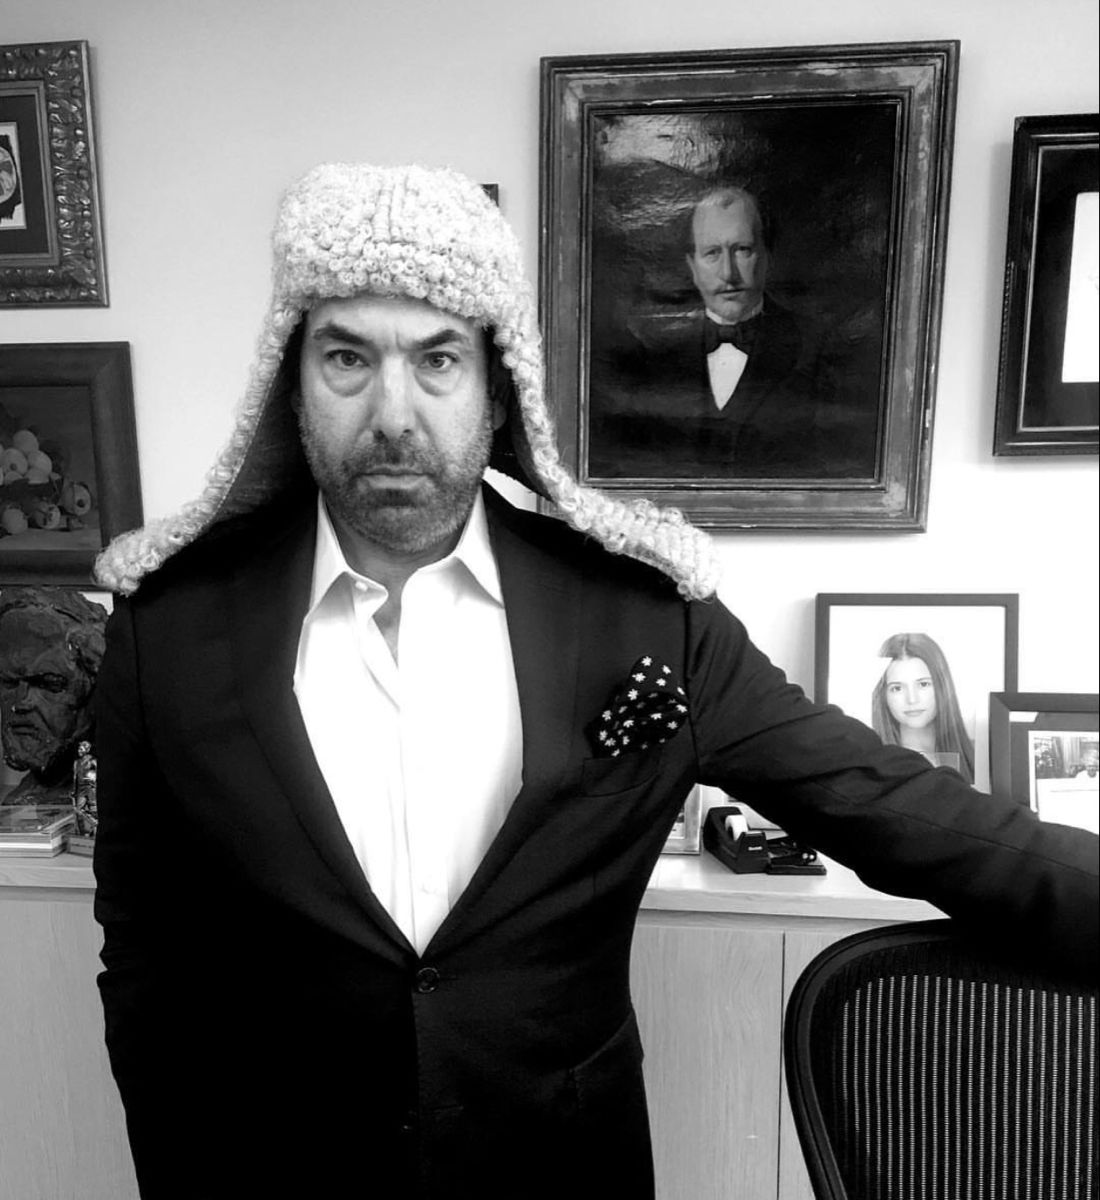
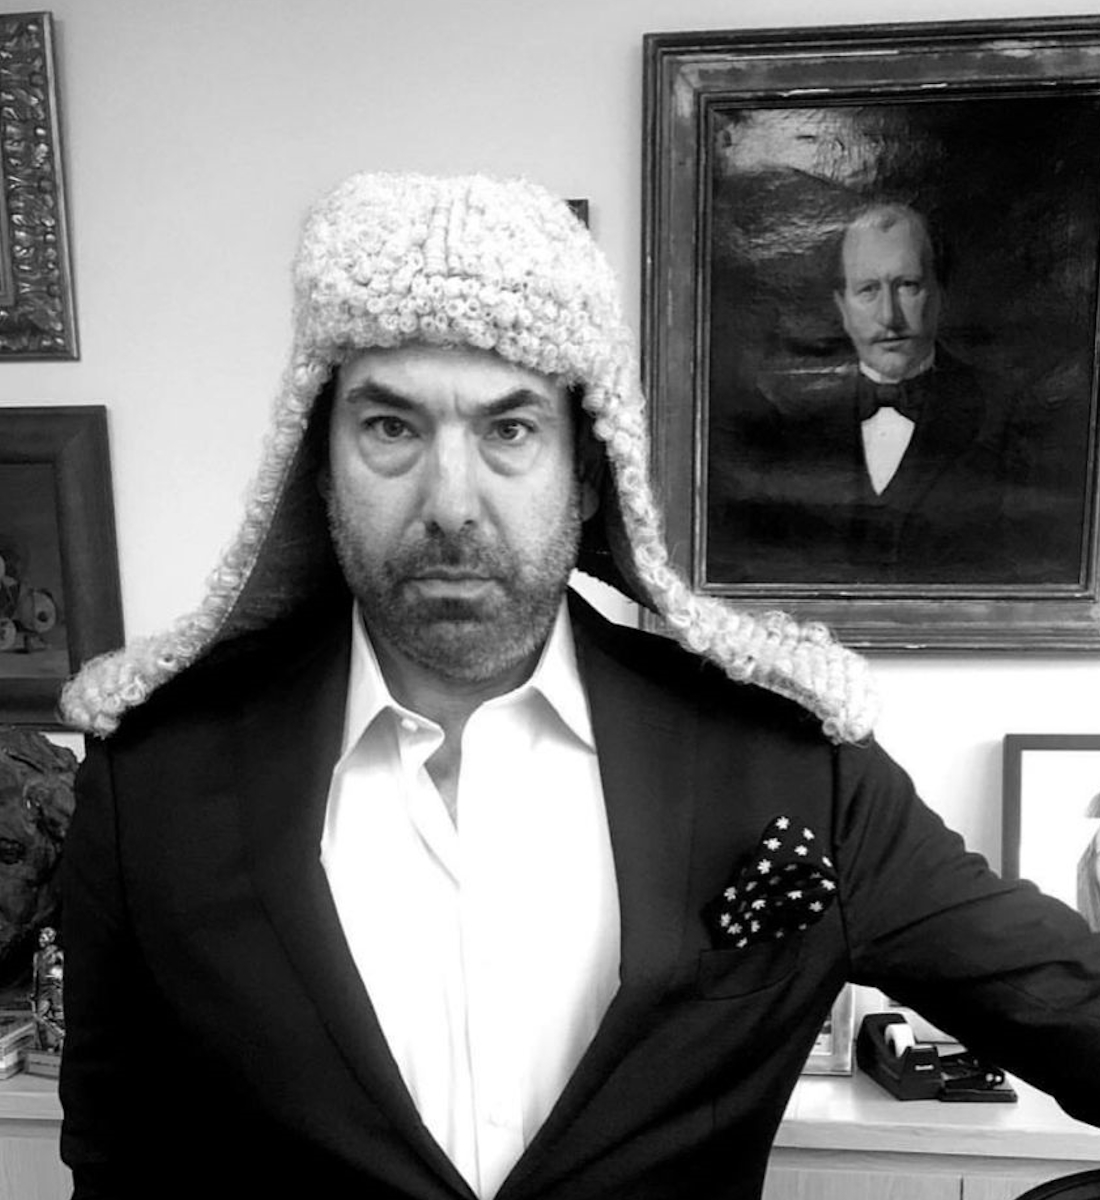
botao de sair do dashboard

diff --git a/src/_components/HeaderActions.tsx b/src/_components/HeaderActions.tsx
@@ -1,17 +1,31 @@
 "use client"
 
 import { usePathname } from "next/navigation"
+import { logout } from "@/_lib/actions"
 
 /**
- * Navegação e CTA do Header. Na intranet (`/dashboard`) ficam ocultos: quem
- * está lá dentro já navega pela sidebar e não precisa agendar reunião.
+ * Navegação e CTA do Header. Na intranet (`/dashboard`) dão lugar ao botão de
+ * sair: quem está lá dentro já navega pela sidebar e não precisa agendar reunião.
  */
 export default function HeaderActions({ children }: { children: React.ReactNode }) {
     const pathname = usePathname()
-    const hidden = pathname === "/dashboard" || pathname.startsWith("/dashboard/")
+    const isDashboard = pathname === "/dashboard" || pathname.startsWith("/dashboard/")
+
+    if (isDashboard) {
+        return (
+            <form action={logout} className="ml-auto shrink-0">
+                <button
+                    type="submit"
+                    className="cursor-pointer font-blair font-bold uppercase tracking-[0.2em] text-xs text-gray-400-dark transition-fast hover:text-white-text"
+                >
+                    Sair
+                </button>
+            </form>
+        )
+    }
 
     return (
-        <div className={`${hidden ? "hidden" : "flex"} w-full flex-row items-center justify-end lg:justify-between gap-3`}>
+        <div className="flex w-full flex-row items-center justify-end lg:justify-between gap-3">
             {children}
         </div>
     )

diff --git a/src/_components/Sidebar.tsx b/src/_components/Sidebar.tsx
@@ -22,18 +22,18 @@ async function UserCard() {
 
     return (
         <div className="flex flex-row items-center justify-between gap-5">
-            <div className="flex items-center gap-3">
+            <div className="flex min-w-0 items-center gap-3">
                 <Avatar name={user.name} initials={user.initials} image={user.image} />
                 <div className="flex min-w-0 flex-col">
-                    <span className="truncate font-bold text-sm">
+                    <span className="truncate font-bold text-sm" title={user.name}>
                         {user.name}
                     </span>
-                    <span className="truncate text-xs text-gray-400-dark">
+                    <span className="truncate text-xs text-gray-400-dark" title={user.title}>
                         {user.title}
                     </span>
                 </div>
             </div>
-            <form action={logout}>
+            <form action={logout} className="shrink-0">
                 <button
                     type="submit"
                     className="cursor-pointer font-blair font-bold uppercase tracking-[0.2em] text-xs text-gray-400-dark transition-fast hover:text-white-text"
